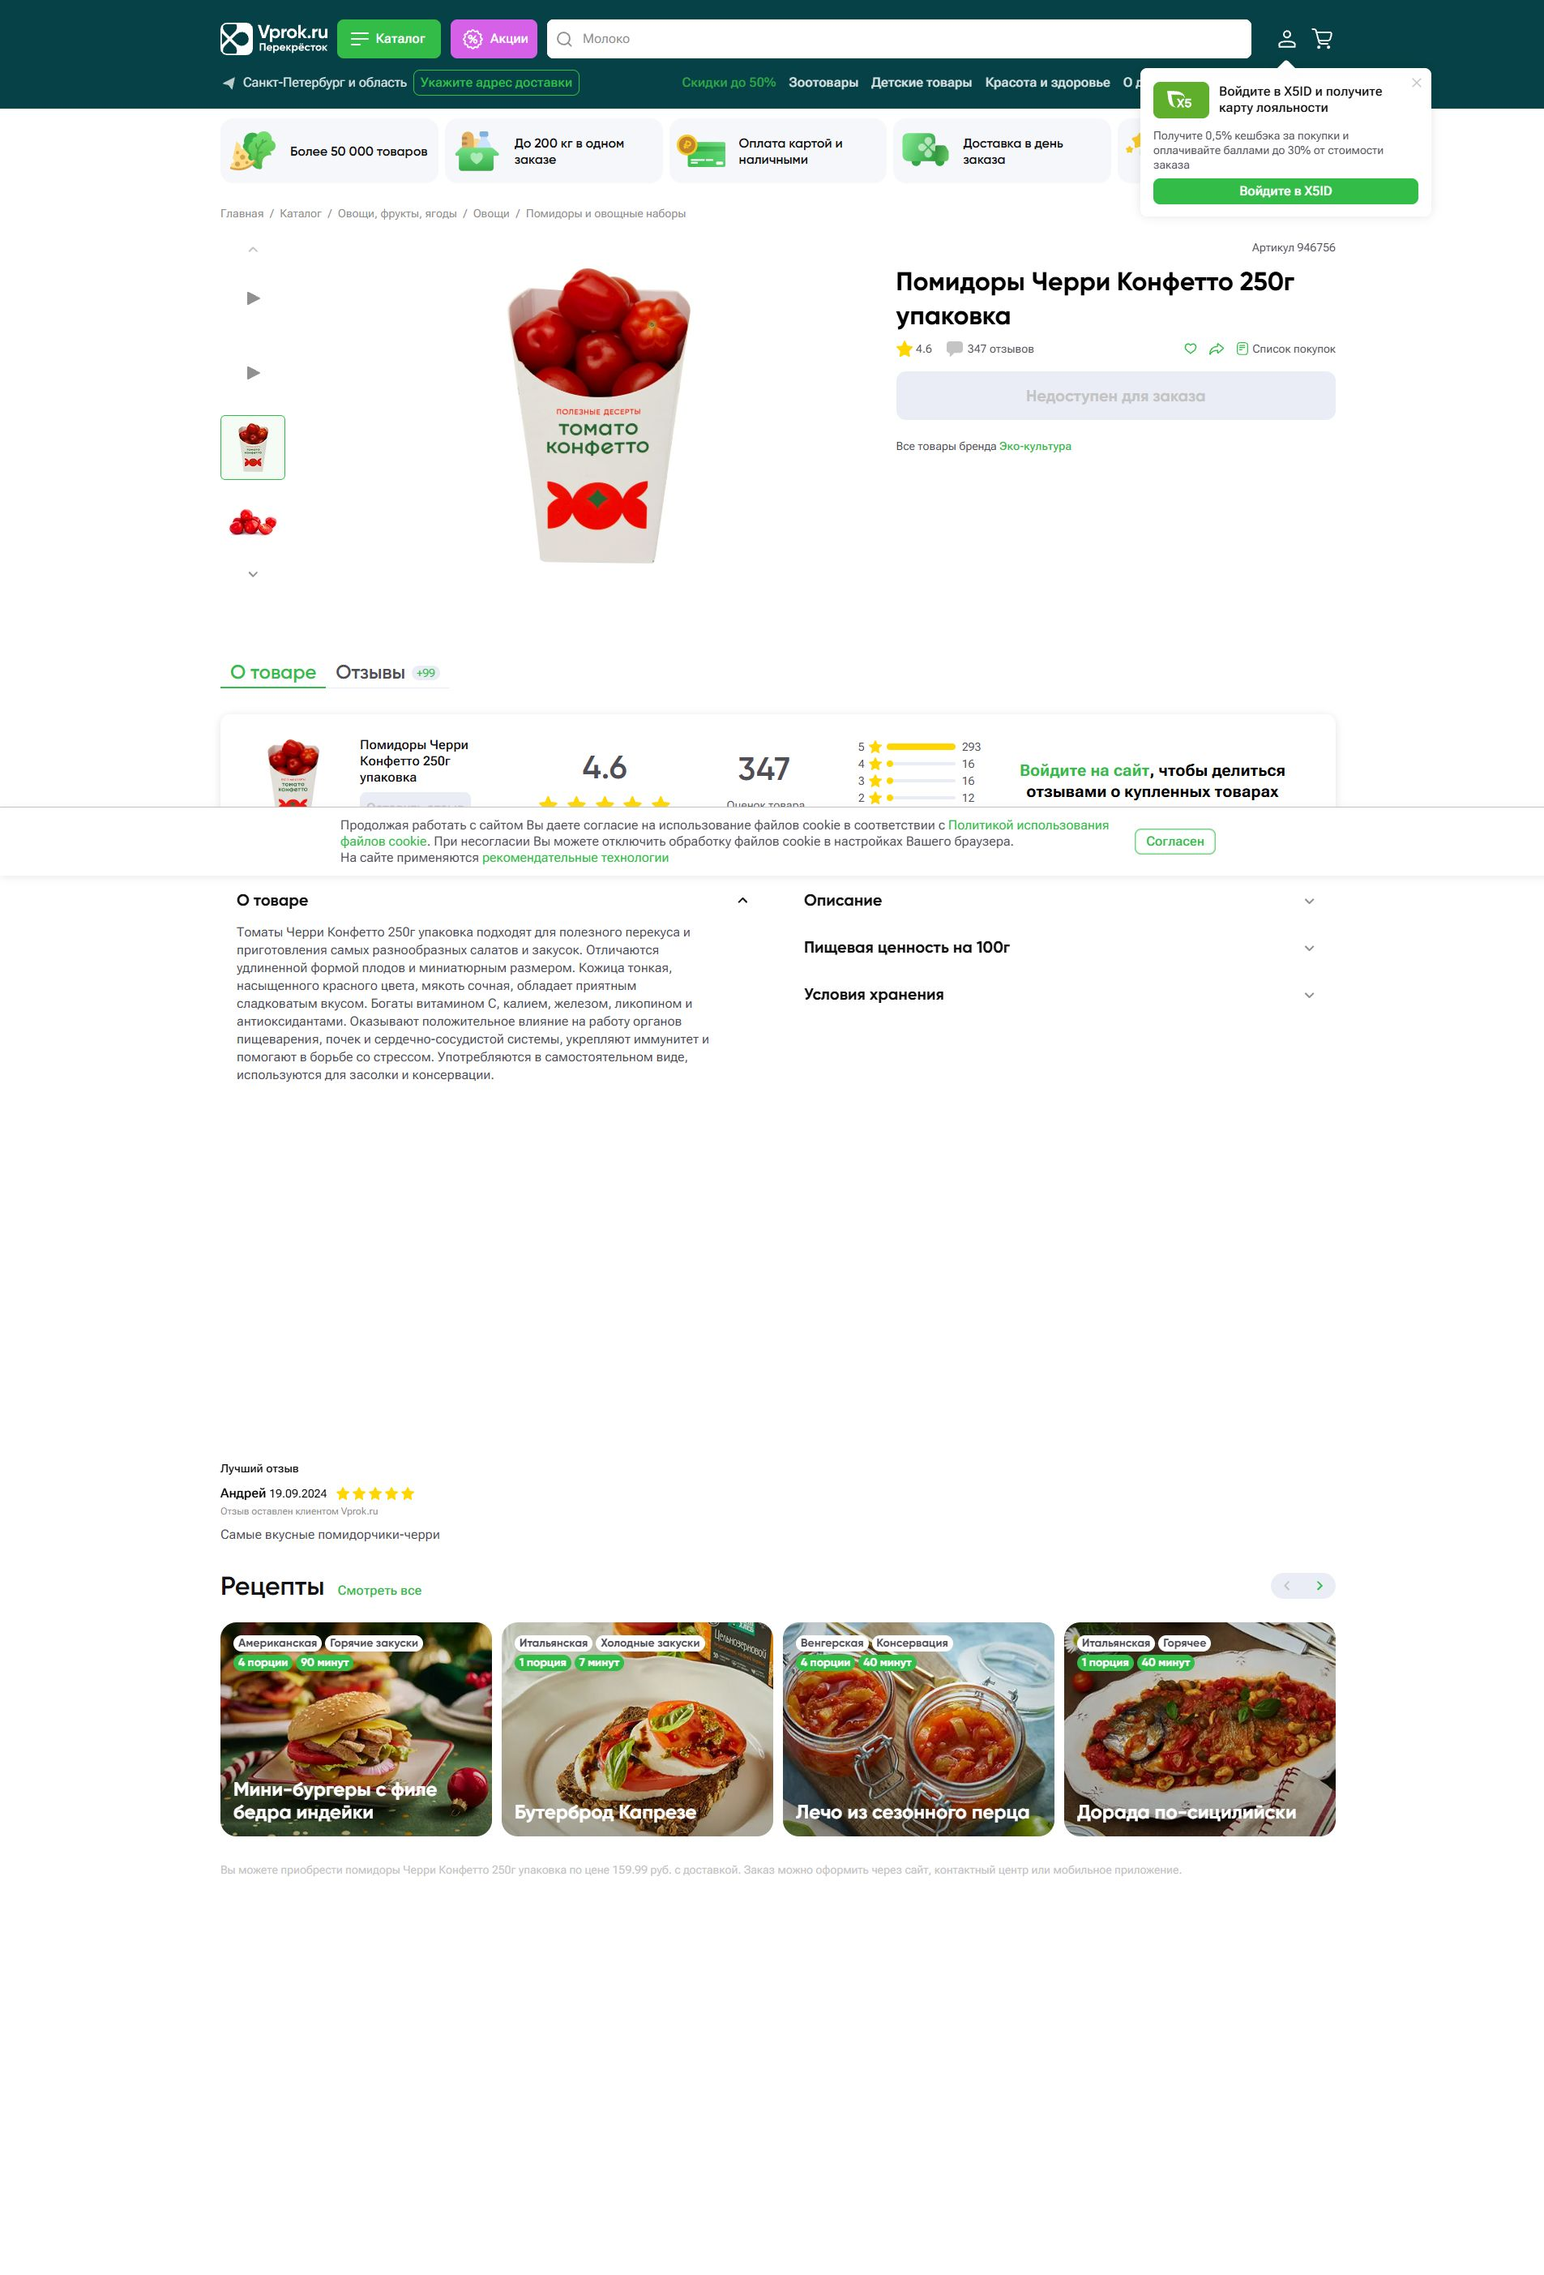
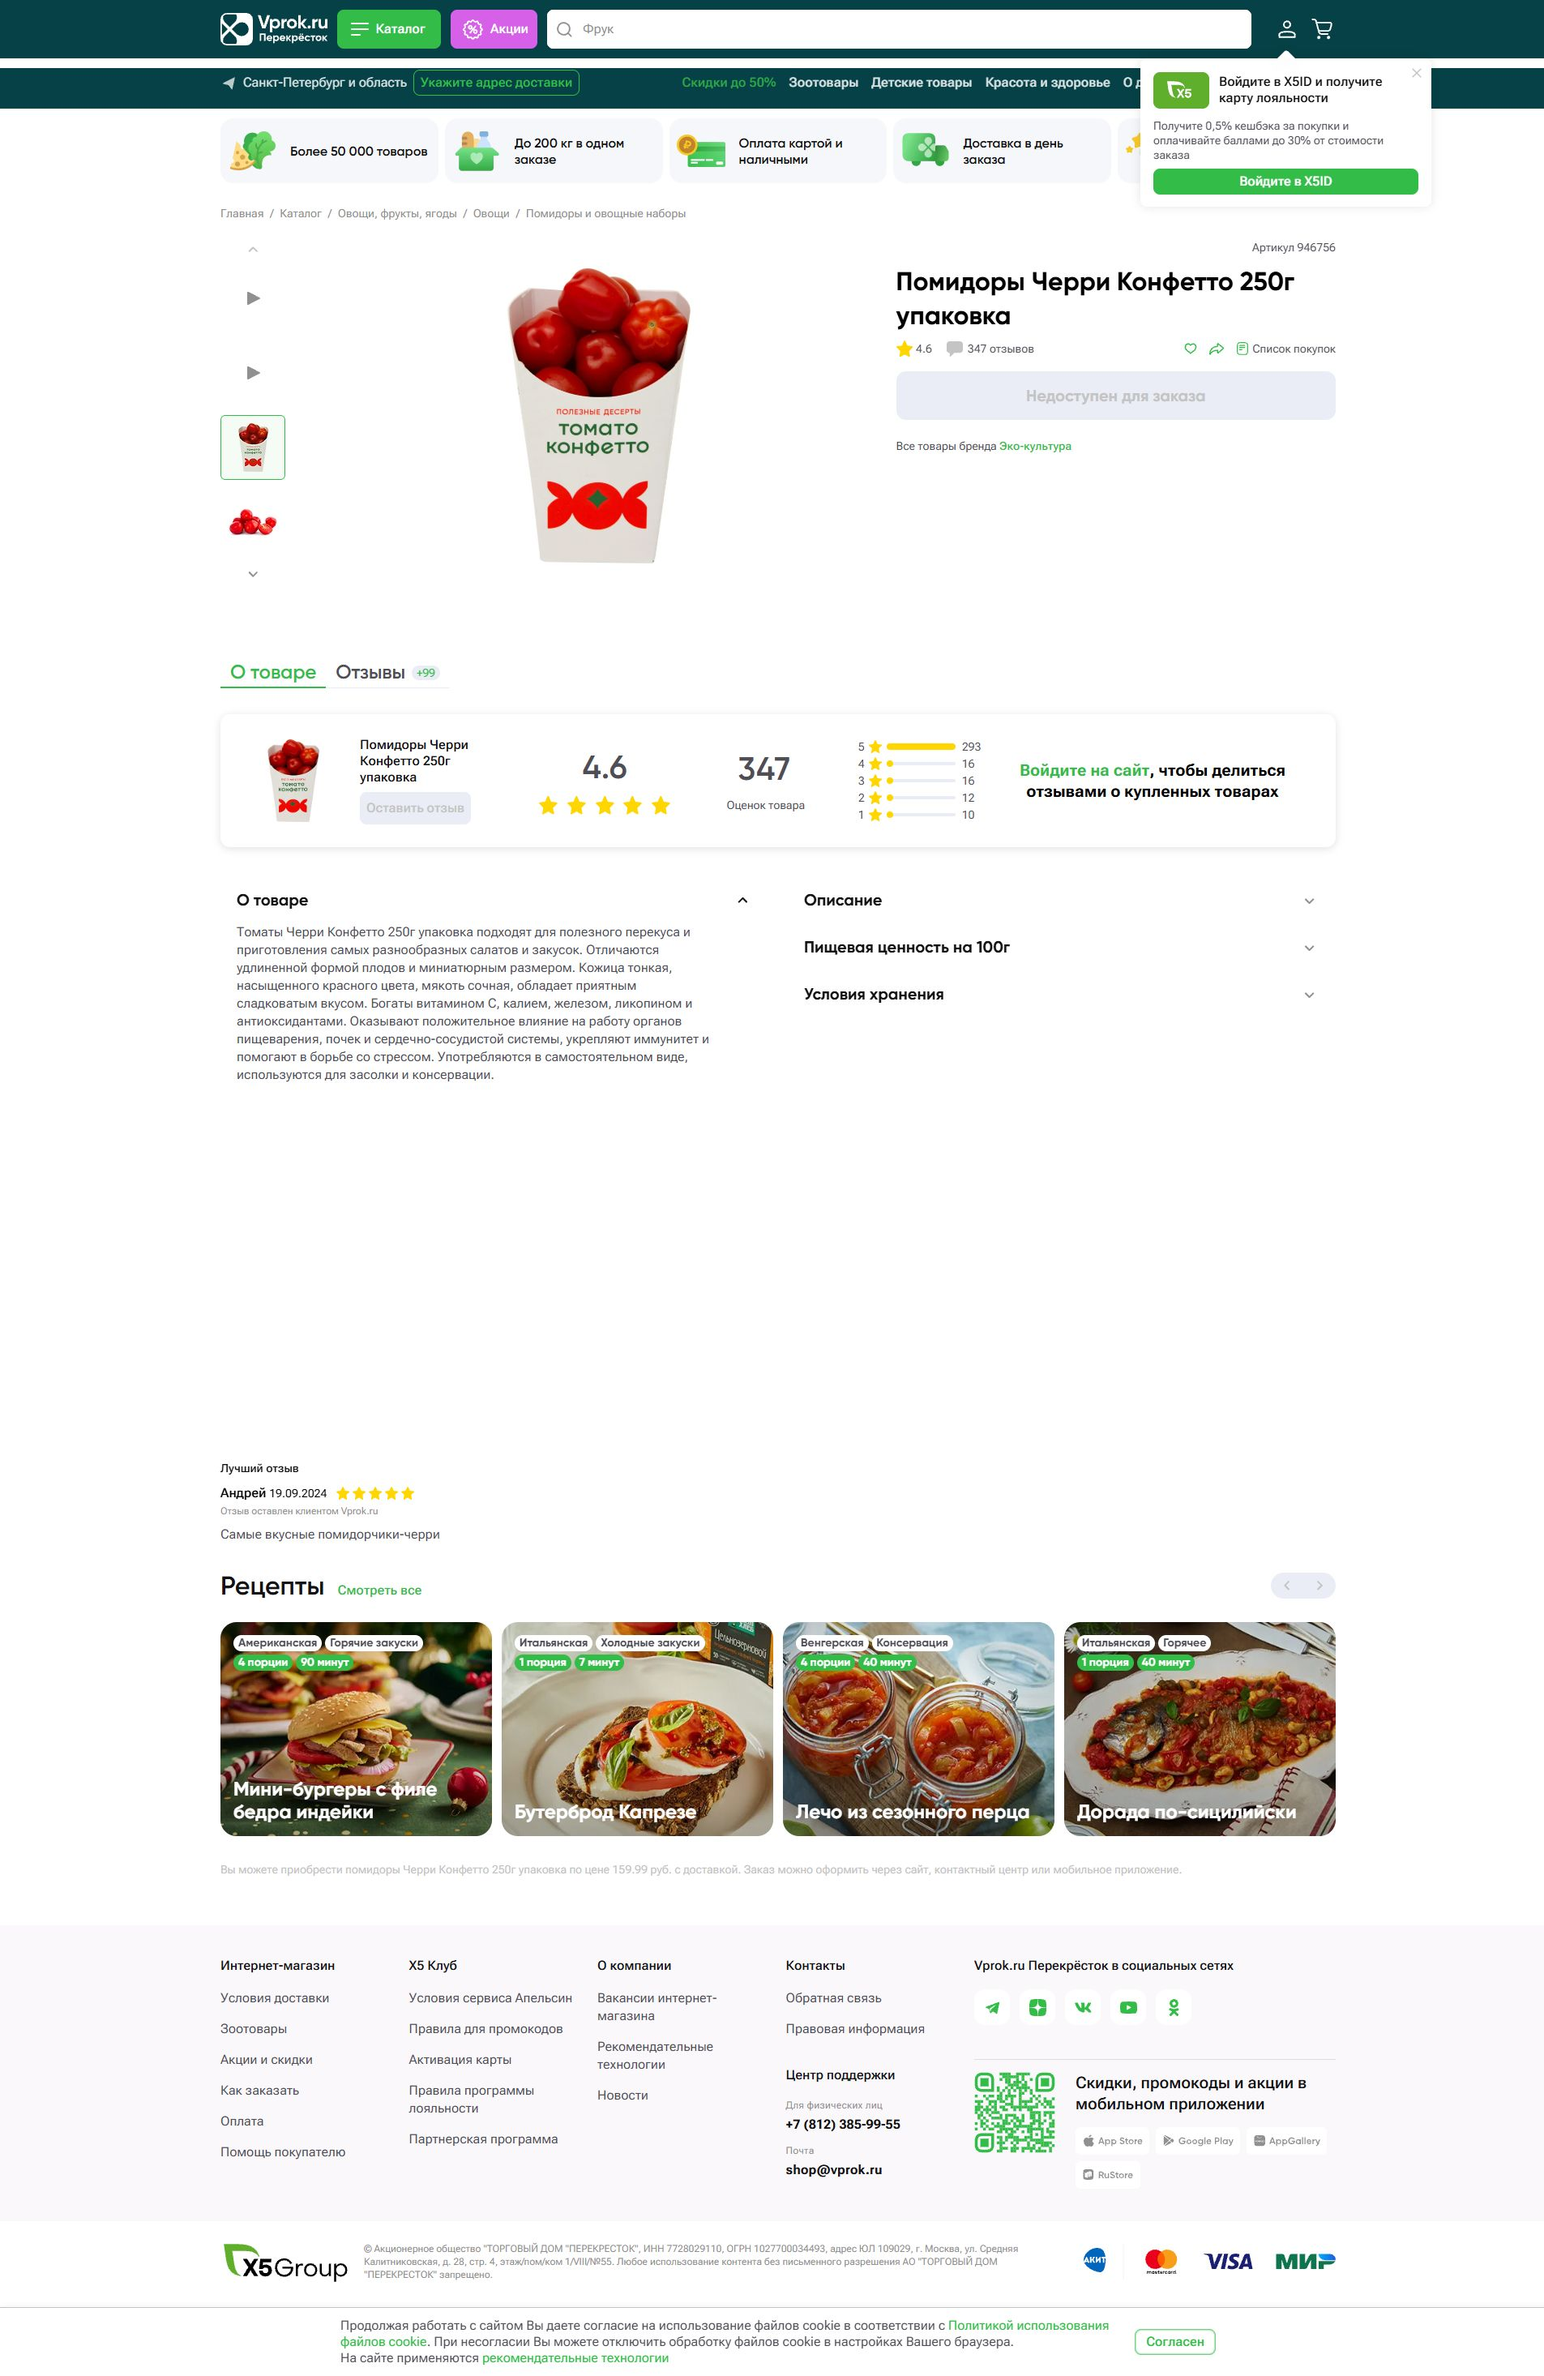
scrolldown

diff --git a/tools/paging.js b/tools/paging.js
@@ -39,9 +39,41 @@ async function selectRegion(page, elem_click) {
   await utils.sleep(1000);
 }
 
+async function autoScrollDown(page) {
+  page.addStyleTag({
+    content: "#headerFirstRow {position: relative !important;}",
+  });
+  page.addStyleTag({
+    content: "#bottomPortal {position: relative !important;}",
+  });
+
+  page.addStyleTag({
+    content: "#headerPortal-stickyPortal {display: none !important;}",
+  });
+
+  await utils.sleep(1000);
+  await page.evaluate(async () => {
+    await new Promise((resolve) => {
+      let totalHeight = 0;
+      const distance = 100;
+      const timer = setInterval(() => {
+        const scrollHeight = document.body.scrollHeight;
+        window.scrollBy(0, distance);
+        totalHeight += distance;
+
+        if (totalHeight >= scrollHeight) {
+          clearInterval(timer);
+          resolve();
+        }
+      }, 100); // Интервал прокрутки (мс)
+    });
+  });
+}
+
 module.exports = {
   createNewPage,
   openRegions,
   getRegions,
   selectRegion,
+  autoScrollDown,
 };

diff --git a/puppeteer.js b/puppeteer.js
@@ -34,6 +34,7 @@ if (!url || !region) {
       .join("\n");
 
     fs.writeFileSync("product.txt", content);
+    await paging.autoScrollDown(page);
     await page.screenshot({ path: "screenshot.jpg", fullPage: true });
     process.exit(1);
   } catch (error) {
